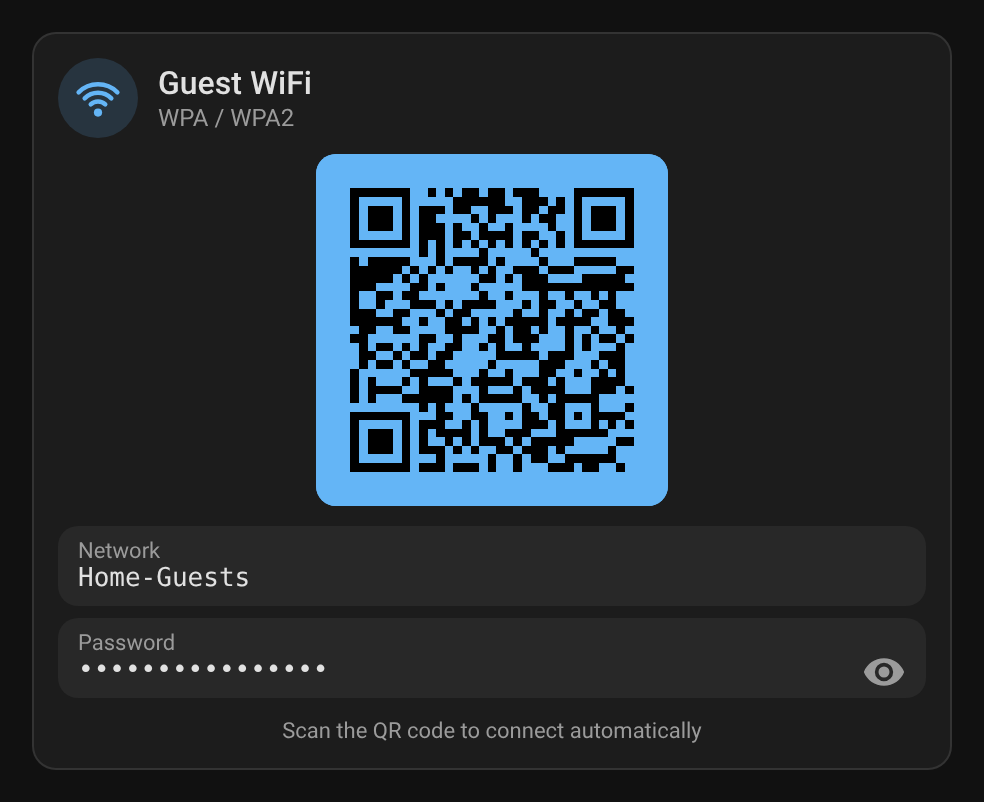
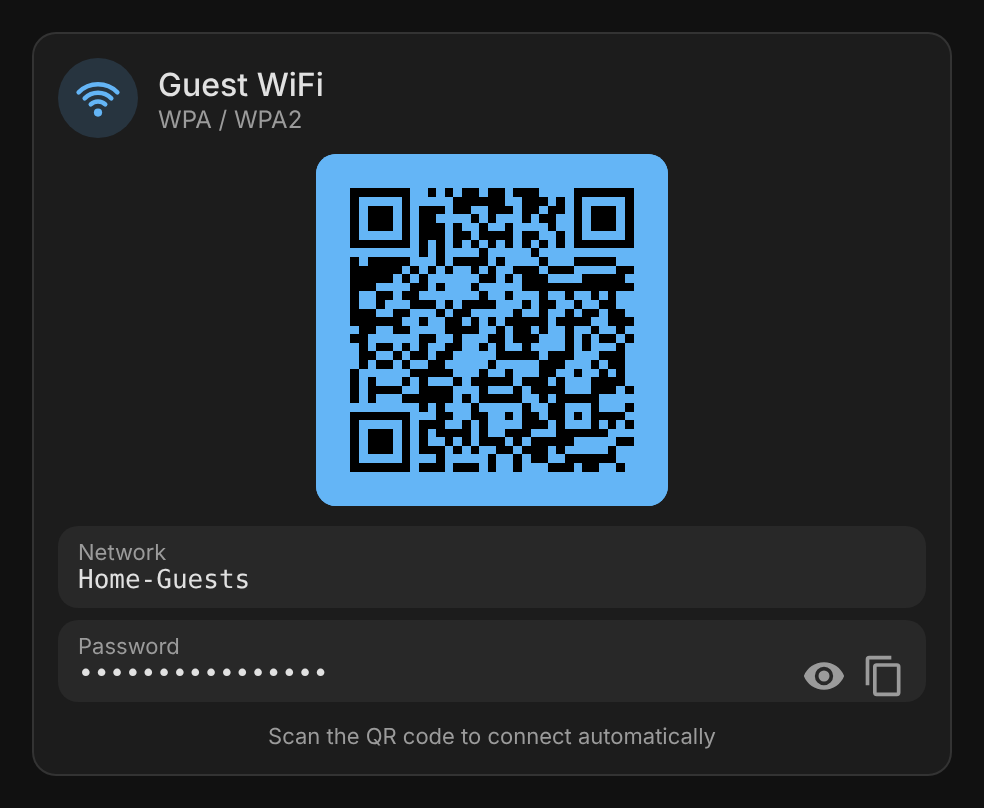
feat: copy-password button and localized card picker entry (1.13.0) (#43)
**What**
- Copy-password button next to the eye button (Wero card pattern:
clipboard API, `execCommand` fallback, check/alert icon for 1.5 s,
result announced through an `aria-live` region). Strings in all 22
languages.
- The full card's card-picker name and description follow the page
language, like the mini card's.

**Tests**
- Picker entry localized (fr load), new keys translated in every
language.
- Copy: clipboard path, legacy fallback (success and failure),
live-region announcements, reset on timer and on disconnect; no copy
button on open networks.
- Screenshots of the full card regenerated.

---
_Generated by [Claude
Code](https://claude.ai/code/session_01F4sAn1Ek4h88w9whpdhjW8)_

diff --git a/src/wifi-card.js b/src/wifi-card.js
@@ -50,6 +50,11 @@ var WifiQrI18n = {
     ed_entity_helper: 'Facultatif : son état remplace la valeur ci-dessus et met à jour le QR code en direct',
     ed_hidden: 'Réseau masqué (SSID non diffusé)',
     entity_unavailable: 'Aucune valeur pour {entity}',
+    card_name: 'Carte QR Wifi',
+    card_desc: 'QR code Wifi — sans CDN',
+    copy_password: 'Copier le mot de passe',
+    copied: 'Mot de passe copié',
+    copy_failed: 'Impossible de copier le mot de passe',
   },
   en: {
     default_title: 'Guest WiFi',
@@ -86,6 +91,11 @@ var WifiQrI18n = {
     ed_entity_helper: 'Optional: its state replaces the value above and updates the QR code live',
     ed_hidden: 'Hidden network (SSID not broadcast)',
     entity_unavailable: 'No value from {entity}',
+    card_name: 'Wifi QR Card',
+    card_desc: 'WiFi QR code — no CDN',
+    copy_password: 'Copy password',
+    copied: 'Password copied',
+    copy_failed: 'Could not copy the password',
   },
   de: {
     default_title: 'Gäste-WLAN',
@@ -122,6 +132,11 @@ var WifiQrI18n = {
     ed_entity_helper: 'Optional: Ihr Zustand ersetzt den Wert oben und aktualisiert den QR-Code live',
     ed_hidden: 'Verstecktes Netzwerk (SSID wird nicht gesendet)',
     entity_unavailable: 'Kein Wert von {entity}',
+    card_name: 'WLAN-QR-Karte',
+    card_desc: 'WLAN-QR-Code — ohne CDN',
+    copy_password: 'Passwort kopieren',
+    copied: 'Passwort kopiert',
+    copy_failed: 'Passwort konnte nicht kopiert werden',
   },
   es: {
     default_title: 'Wi-Fi de invitados',
@@ -158,6 +173,11 @@ var WifiQrI18n = {
     ed_entity_helper: 'Opcional: su estado sustituye el valor de arriba y actualiza el código QR en directo',
     ed_hidden: 'Red oculta (SSID no difundido)',
     entity_unavailable: 'Sin valor de {entity}',
+    card_name: 'Tarjeta QR Wi-Fi',
+    card_desc: 'Código QR Wi-Fi — sin CDN',
+    copy_password: 'Copiar contraseña',
+    copied: 'Contraseña copiada',
+    copy_failed: 'No se pudo copiar la contraseña',
   },
   sr: {
     default_title: 'WiFi за госте',
@@ -194,6 +214,11 @@ var WifiQrI18n = {
     ed_entity_helper: 'Опционо: његово стање замењује вредност изнад и ажурира QR код уживо',
     ed_hidden: 'Скривена мрежа (SSID се не емитује)',
     entity_unavailable: 'Нема вредности из {entity}',
+    card_name: 'Картица за WiFi QR',
+    card_desc: 'WiFi QR код — без спољних зависности',
+    copy_password: 'Копирај лозинку',
+    copied: 'Лозинка је копирана',
+    copy_failed: 'Копирање лозинке није успело',
   },
   'sr-Latn': {
     default_title: 'WiFi za goste',
@@ -230,6 +255,11 @@ var WifiQrI18n = {
     ed_entity_helper: 'Opciono: njegovo stanje zamenjuje vrednost iznad i ažurira QR kod uživo',
     ed_hidden: 'Skrivena mreža (SSID se ne emituje)',
     entity_unavailable: 'Nema vrednosti iz {entity}',
+    card_name: 'Kartica za WiFi QR',
+    card_desc: 'WiFi QR kod — bez spoljnih zavisnosti',
+    copy_password: 'Kopiraj lozinku',
+    copied: 'Lozinka je kopirana',
+    copy_failed: 'Kopiranje lozinke nije uspelo',
   },
   it: {
     default_title: 'Wi-Fi ospiti',
@@ -266,6 +296,11 @@ var WifiQrI18n = {
     ed_entity_helper: 'Facoltativa: il suo stato sostituisce il valore qui sopra e aggiorna il codice QR in tempo reale',
     ed_hidden: 'Rete nascosta (SSID non trasmesso)',
     entity_unavailable: 'Nessun valore da {entity}',
+    card_name: 'Scheda QR Wi-Fi',
+    card_desc: 'Codice QR Wi-Fi — senza CDN',
+    copy_password: 'Copia password',
+    copied: 'Password copiata',
+    copy_failed: 'Impossibile copiare la password',
   },
   nl: {
     default_title: 'Gastenwifi',
@@ -302,6 +337,11 @@ var WifiQrI18n = {
     ed_entity_helper: 'Optioneel: de status vervangt de waarde hierboven en werkt de QR-code live bij',
     ed_hidden: 'Verborgen netwerk (SSID niet uitgezonden)',
     entity_unavailable: 'Geen waarde van {entity}',
+    card_name: 'Wifi-QR-kaart',
+    card_desc: 'Wifi-QR-code — zonder CDN',
+    copy_password: 'Wachtwoord kopiëren',
+    copied: 'Wachtwoord gekopieerd',
+    copy_failed: 'Kan het wachtwoord niet kopiëren',
   },
   pt: {
     default_title: 'Wi-Fi visitas',
@@ -338,6 +378,11 @@ var WifiQrI18n = {
     ed_entity_helper: 'Opcional: o seu estado substitui o valor acima e atualiza o código QR em tempo real',
     ed_hidden: 'Rede oculta (SSID não difundido)',
     entity_unavailable: 'Sem valor de {entity}',
+    card_name: 'Cartão QR Wi-Fi',
+    card_desc: 'Código QR Wi-Fi — sem CDN',
+    copy_password: 'Copiar palavra-passe',
+    copied: 'Palavra-passe copiada',
+    copy_failed: 'Não foi possível copiar a palavra-passe',
   },
   pl: {
     default_title: 'Wi-Fi dla gości',
@@ -374,6 +419,11 @@ var WifiQrI18n = {
     ed_entity_helper: 'Opcjonalnie: jej stan zastępuje wartość powyżej i aktualizuje kod QR na żywo',
     ed_hidden: 'Sieć ukryta (SSID nierozgłaszany)',
     entity_unavailable: 'Brak wartości z {entity}',
+    card_name: 'Karta QR Wi-Fi',
+    card_desc: 'Kod QR Wi-Fi — bez CDN',
+    copy_password: 'Kopiuj hasło',
+    copied: 'Hasło skopiowane',
+    copy_failed: 'Nie udało się skopiować hasła',
   },
   ro: {
     default_title: 'Wi-Fi oaspeți',
@@ -410,6 +460,11 @@ var WifiQrI18n = {
     ed_entity_helper: 'Opțional: starea ei înlocuiește valoarea de mai sus și actualizează codul QR în timp real',
     ed_hidden: 'Rețea ascunsă (SSID nedifuzat)',
     entity_unavailable: 'Nicio valoare de la {entity}',
+    card_name: 'Card QR Wi-Fi',
+    card_desc: 'Cod QR Wi-Fi — fără CDN',
+    copy_password: 'Copiază parola',
+    copied: 'Parola a fost copiată',
+    copy_failed: 'Parola nu a putut fi copiată',
   },
   da: {
     default_title: 'Gæste-wifi',
@@ -446,6 +501,11 @@ var WifiQrI18n = {
     ed_entity_helper: 'Valgfri: dens tilstand erstatter værdien ovenfor og opdaterer QR-koden live',
     ed_hidden: 'Skjult netværk (SSID udsendes ikke)',
     entity_unavailable: 'Ingen værdi fra {entity}',
+    card_name: 'Wifi-QR-kort',
+    card_desc: 'Wifi-QR-kode — uden CDN',
+    copy_password: 'Kopiér adgangskode',
+    copied: 'Adgangskode kopieret',
+    copy_failed: 'Adgangskoden kunne ikke kopieres',
   },
   sv: {
     default_title: 'Gäst-wifi',
@@ -482,6 +542,11 @@ var WifiQrI18n = {
     ed_entity_helper: 'Valfri: dess tillstånd ersätter värdet ovan och uppdaterar QR-koden direkt',
     ed_hidden: 'Dolt nätverk (SSID sänds inte)',
     entity_unavailable: 'Inget värde från {entity}',
+    card_name: 'Kort för wifi-QR',
+    card_desc: 'QR-kod för wifi — utan CDN',
+    copy_password: 'Kopiera lösenord',
+    copied: 'Lösenordet har kopierats',
+    copy_failed: 'Det gick inte att kopiera lösenordet',
   },
   bg: {
     default_title: 'Wi-Fi за гости',
@@ -518,6 +583,11 @@ var WifiQrI18n = {
     ed_entity_helper: 'По избор: състоянието му замества стойността по-горе и обновява QR кода на живо',
     ed_hidden: 'Скрита мрежа (SSID не се излъчва)',
     entity_unavailable: 'Няма стойност от {entity}',
+    card_name: 'Карта с Wi-Fi QR',
+    card_desc: 'Wi-Fi QR код — без CDN',
+    copy_password: 'Копиране на паролата',
+    copied: 'Паролата е копирана',
+    copy_failed: 'Паролата не можа да бъде копирана',
   },
   ru: {
     default_title: 'Гостевой Wi-Fi',
@@ -554,6 +624,11 @@ var WifiQrI18n = {
     ed_entity_helper: 'Необязательно: его состояние заменяет значение выше и обновляет QR-код в реальном времени',
     ed_hidden: 'Скрытая сеть (SSID не транслируется)',
     entity_unavailable: 'Нет значения от {entity}',
+    card_name: 'Карточка Wi-Fi QR',
+    card_desc: 'QR-код Wi-Fi — без CDN',
+    copy_password: 'Копировать пароль',
+    copied: 'Пароль скопирован',
+    copy_failed: 'Не удалось скопировать пароль',
   },
   uk: {
     default_title: 'Гостьовий Wi-Fi',
@@ -590,6 +665,11 @@ var WifiQrI18n = {
     ed_entity_helper: 'Необов’язково: її стан замінює значення вище й оновлює QR-код наживо',
     ed_hidden: 'Прихована мережа (SSID не транслюється)',
     entity_unavailable: 'Немає значення від {entity}',
+    card_name: 'Картка Wi-Fi QR',
+    card_desc: 'QR-код Wi-Fi — без CDN',
+    copy_password: 'Копіювати пароль',
+    copied: 'Пароль скопійовано',
+    copy_failed: 'Не вдалося скопіювати пароль',
   },
   hu: {
     default_title: 'Vendég Wi-Fi',
@@ -626,6 +706,11 @@ var WifiQrI18n = {
     ed_entity_helper: 'Opcionális: az állapota felülírja a fenti értéket, és élőben frissíti a QR-kódot',
     ed_hidden: 'Rejtett hálózat (az SSID nincs sugározva)',
     entity_unavailable: 'Nincs érték innen: {entity}',
+    card_name: 'Wi-Fi QR kártya',
+    card_desc: 'Wi-Fi QR-kód — CDN nélkül',
+    copy_password: 'Jelszó másolása',
+    copied: 'Jelszó másolva',
+    copy_failed: 'Nem sikerült másolni a jelszót',
   },
   sk: {
     default_title: 'Wi-Fi pre hostí',
@@ -662,6 +747,11 @@ var WifiQrI18n = {
     ed_entity_helper: 'Voliteľné: jej stav nahradí hodnotu vyššie a priebežne aktualizuje QR kód',
     ed_hidden: 'Skrytá sieť (SSID sa nevysiela)',
     entity_unavailable: 'Žiadna hodnota z {entity}',
+    card_name: 'Karta Wi-Fi QR',
+    card_desc: 'QR kód Wi-Fi — bez CDN',
+    copy_password: 'Kopírovať heslo',
+    copied: 'Heslo skopírované',
+    copy_failed: 'Heslo sa nepodarilo skopírovať',
   },
   cs: {
     default_title: 'Wi-Fi pro hosty',
@@ -698,6 +788,11 @@ var WifiQrI18n = {
     ed_entity_helper: 'Volitelné: její stav nahradí hodnotu výše a průběžně aktualizuje QR kód',
     ed_hidden: 'Skrytá síť (SSID se nevysílá)',
     entity_unavailable: 'Žádná hodnota z {entity}',
+    card_name: 'Karta Wi-Fi QR',
+    card_desc: 'QR kód Wi-Fi — bez CDN',
+    copy_password: 'Kopírovat heslo',
+    copied: 'Heslo zkopírováno',
+    copy_failed: 'Heslo se nepodařilo zkopírovat',
   },
   sl: {
     default_title: 'Wi-Fi za goste',
@@ -734,6 +829,11 @@ var WifiQrI18n = {
     ed_entity_helper: 'Neobvezno: njeno stanje nadomesti zgornjo vrednost in sproti posodobi kodo QR',
     ed_hidden: 'Skrito omrežje (SSID se ne oddaja)',
     entity_unavailable: 'Ni vrednosti iz {entity}',
+    card_name: 'Kartica Wi-Fi QR',
+    card_desc: 'Koda QR Wi-Fi — brez CDN',
+    copy_password: 'Kopiraj geslo',
+    copied: 'Geslo kopirano',
+    copy_failed: 'Gesla ni bilo mogoče kopirati',
   },
   lv: {
     default_title: 'Viesu Wi-Fi',
@@ -770,6 +870,11 @@ var WifiQrI18n = {
     ed_entity_helper: 'Neobligāti: tās stāvoklis aizstāj vērtību augstāk un tiešsaistē atjaunina QR kodu',
     ed_hidden: 'Slēpts tīkls (SSID netiek pārraidīts)',
     entity_unavailable: 'Nav vērtības no {entity}',
+    card_name: 'Wi-Fi QR karte',
+    card_desc: 'Wi-Fi QR kods — bez CDN',
+    copy_password: 'Kopēt paroli',
+    copied: 'Parole nokopēta',
+    copy_failed: 'Neizdevās nokopēt paroli',
   },
   el: {
     default_title: 'WiFi επισκεπτών',
@@ -806,6 +911,11 @@ var WifiQrI18n = {
     ed_entity_helper: 'Προαιρετικό: η κατάστασή της αντικαθιστά την παραπάνω τιμή και ενημερώνει τον κωδικό QR ζωντανά',
     ed_hidden: 'Κρυφό δίκτυο (το SSID δεν εκπέμπεται)',
     entity_unavailable: 'Καμία τιμή από {entity}',
+    card_name: 'Κάρτα QR Wi-Fi',
+    card_desc: 'Κωδικός QR Wi-Fi — χωρίς CDN',
+    copy_password: 'Αντιγραφή κωδικού πρόσβασης',
+    copied: 'Ο κωδικός πρόσβασης αντιγράφηκε',
+    copy_failed: 'Δεν ήταν δυνατή η αντιγραφή του κωδικού πρόσβασης',
   },
 };
 
@@ -1016,8 +1126,51 @@ class WifiQrCard extends HTMLElement {
     this._pwdSync?.();
   }
 
+  // Copies the password (the clipboard API, else the legacy execCommand in an insecure context), like the Wero
+  // card's copy button: the icon shows the result briefly and the live region announces it.
+  _copyPassword() {
+    var pwd = this._config.password;
+    // Looked up when used: the card may re-render (language change) while the clipboard call runs.
+    var setIcon = (icon) => this.shadowRoot.getElementById('cico')?.setAttribute('icon', icon);
+    var announce = (text) => {
+      var live = this.shadowRoot.getElementById('live');
+      if (live) live.textContent = text;
+    };
+    var flash = (icon, key) => {
+      setIcon(icon);
+      announce(this._t(key));
+      clearTimeout(this._copyTimer);
+      this._copyTimer = setTimeout(() => this._copyReset(), 1500);
+    };
+    var done = () => flash('mdi:check', 'copied');
+    var failed = () => flash('mdi:alert', 'copy_failed');
+    var legacy = () => {
+      var ta = document.createElement('textarea');
+      ta.value = pwd;
+      ta.style.cssText = 'position:fixed;opacity:0';
+      document.body.appendChild(ta);
+      ta.select();
+      var ok = false;
+      try { ok = document.execCommand('copy'); } catch (_e) { /* clipboard unavailable */ }
+      ta.remove();
+      if (ok) done();
+      else failed();
+    };
+    if (globalThis.navigator?.clipboard && window.isSecureContext) navigator.clipboard.writeText(pwd).then(done, legacy);
+    else legacy();
+  }
+
+  _copyReset() {
+    clearTimeout(this._copyTimer);
+    this._copyTimer = null;
+    this.shadowRoot.getElementById('cico')?.setAttribute('icon', 'mdi:content-copy');
+    var live = this.shadowRoot.getElementById('live');
+    if (live) live.textContent = '';
+  }
+
   disconnectedCallback() {
     this._maskPassword();
+    this._copyReset();
   }
 
   _render(strict) {
@@ -1083,6 +1236,7 @@ class WifiQrCard extends HTMLElement {
         /* 30 px target (WCAG 2.5.8); the negative margin absorbs the padding so the Password row is not taller than the Network row. */
         button { background: none; border: none; cursor: pointer; padding: 4px; margin: -8px -4px; display: flex; align-items: center; flex: none; }
         .hint { font-size: 11px; color: var(--secondary-text-color); text-align: center; }
+        .sr { position: absolute; width: 1px; height: 1px; margin: -1px; padding: 0; overflow: hidden; clip: rect(0 0 0 0); white-space: nowrap; border: 0; }
         ${this._miniStyle()}
       </style>
       <ha-card>
@@ -1108,10 +1262,12 @@ class WifiQrCard extends HTMLElement {
               : `<div class="pwd-row">
               <div class="val masked" id="pwd">••••••••••••••••</div>
               <button id="btn" aria-label="${this._t('show_password')}" aria-pressed="false"><ha-icon icon="mdi:eye" id="ico"></ha-icon></button>
+              <button id="cbtn" title="${this._t('copy_password')}" aria-label="${this._t('copy_password')}"><ha-icon icon="mdi:content-copy" id="cico"></ha-icon></button>
             </div>`}
           </div>
         </div>
         <div class="hint">${this._t('hint')}</div>
+        <span class="sr" id="live" aria-live="polite"></span>
       </ha-card>`;
 
     if (!isOpen) {
@@ -1136,6 +1292,7 @@ class WifiQrCard extends HTMLElement {
         clearTimeout(this._pwdTimer);
         this._pwdTimer = setTimeout(() => this._maskPassword(), WIFI_PWD_REVEAL_MS);
       };
+      this.shadowRoot.getElementById('cbtn').onclick = () => this._copyPassword();
       this._pwdSync = show;
       if (this._pwdShown) show();
     }
@@ -1504,13 +1661,15 @@ if (!customElements.get('wifi-qr-mini-card-editor')) {
   customElements.define('wifi-qr-mini-card-editor', WifiQrMiniCardEditor);
 }
 
+// The card picker lists both cards in the page language (the HA frontend sets it), like the cards' own texts.
+var wifiQrPickerLang = wifiQrLang(document.documentElement.lang || globalThis.navigator?.language);
 if (!customElements.get('wifi-qr-card')) {
   customElements.define('wifi-qr-card', WifiQrCard);
   window.customCards = window.customCards || [];
   window.customCards.push({
     type: 'wifi-qr-card',
-    name: 'Wifi QR Card',
-    description: 'WiFi QR code — no CDN',
+    name: wifiQrT(wifiQrPickerLang, 'card_name'),
+    description: wifiQrT(wifiQrPickerLang, 'card_desc'),
     preview: true,
     documentationURL: 'https://github.com/juju35/ha-wifi-card',
   });
@@ -1518,8 +1677,6 @@ if (!customElements.get('wifi-qr-card')) {
 }
 if (!customElements.get('wifi-qr-mini-card')) {
   customElements.define('wifi-qr-mini-card', WifiQrMiniCard);
-  // The card picker lists it in the page language (the HA frontend sets it), like the card's own texts.
-  var wifiQrPickerLang = wifiQrLang(document.documentElement.lang || globalThis.navigator?.language);
   window.customCards = window.customCards || [];
   window.customCards.push({
     type: 'wifi-qr-mini-card',

diff --git a/README.md b/README.md
@@ -19,7 +19,7 @@ Custom Lovelace card for Home Assistant that displays a WiFi QR code for easy gu
 ## Features
 
 - QR code generated in pure JS (embedded Reed-Solomon algorithm)
-- Password hidden by default, revealable with a toggle button (masked again after 30 s or when the card leaves the page)
+- Password hidden by default, revealable with a toggle button (masked again after 30 s or when the card leaves the page), and a button to copy it to the clipboard
 - Mini card (`wifi-qr-mini-card`): one compact row with the network name and a QR code thumbnail that opens the QR code full screen, and a detail button that switches to the full card and back
 - Visual editor in the dashboard UI (no YAML needed)
 - Light and dark mode, English, French, German, Spanish, Serbian (Cyrillic and Latin), Italian, Dutch, European Portuguese, Polish, Romanian, Danish, Swedish, Bulgarian, Russian, Ukrainian, Hungarian, Slovak, Czech, Slovenian, Latvian and Greek

diff --git a/CHANGELOG.md b/CHANGELOG.md
@@ -1,5 +1,11 @@
 # Changelog
 
+## 1.13.0 - 2026-11-08
+
+### What's new
+- A copy button next to the eye button copies the password to the clipboard, shows a check mark and announces the result to screen readers, in all 22 languages of the card.
+- The full card's name and description in the card picker are now in the Home Assistant language, like the mini card's.
+
 ## 1.12.1 - 2026-11-07
 
 ### Security
